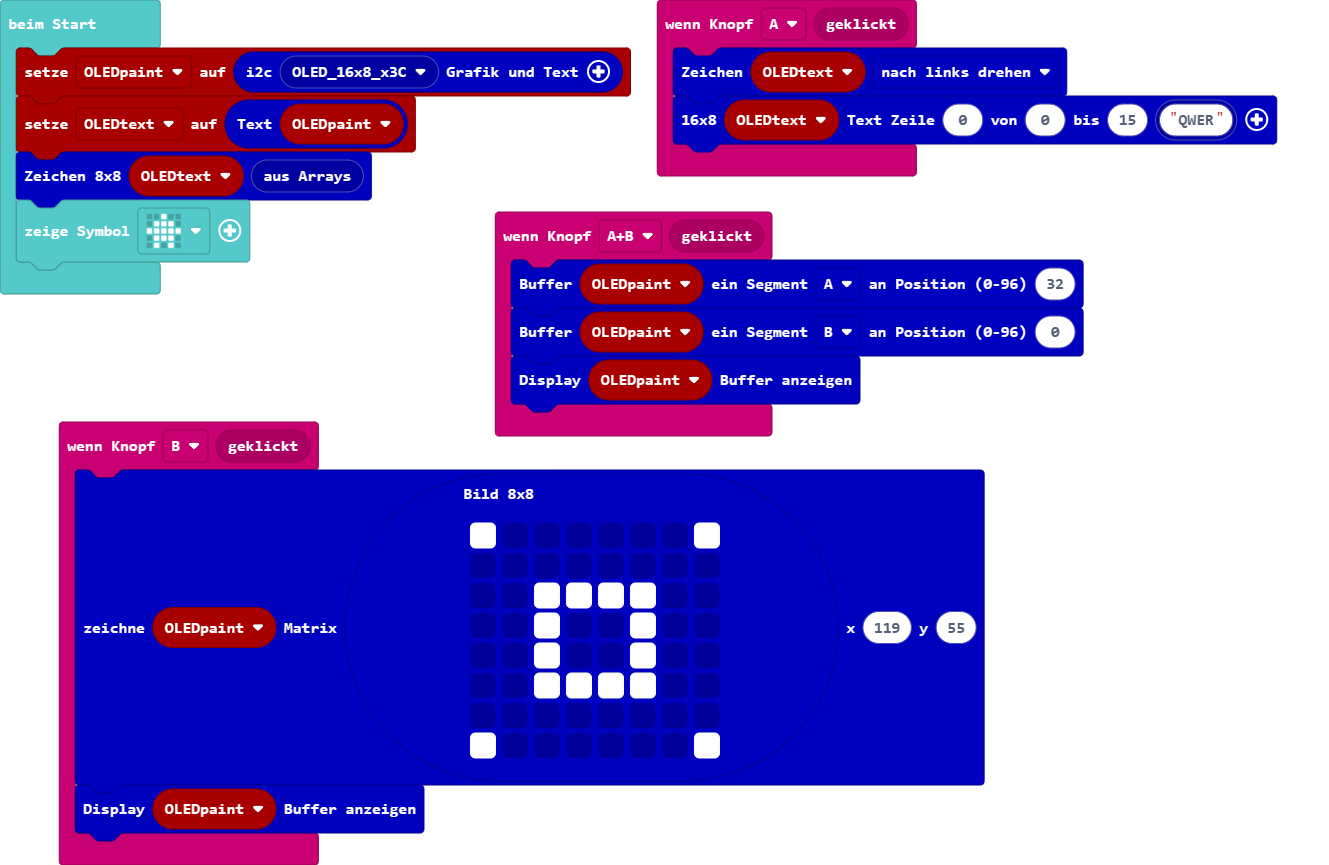
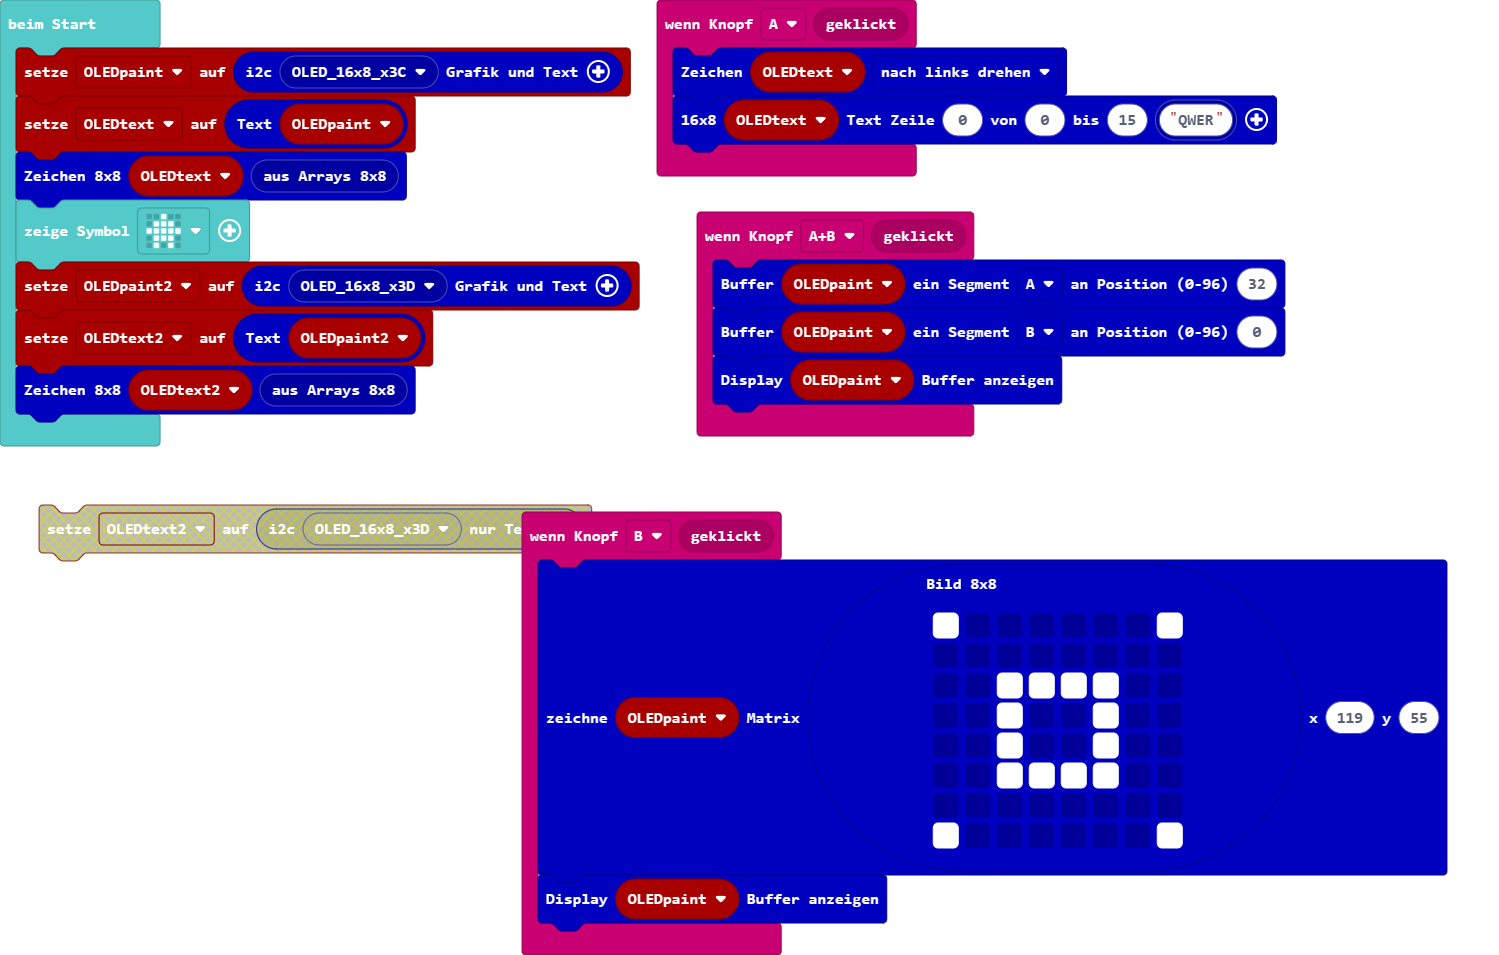
Aktualisiere pxt.json, main.blocks, main.ts, oledarrays.ts

diff --git a/oledarrays.ts b/oledarrays.ts
@@ -1,14 +1,26 @@
 
 namespace oled {
+    let nOLEDArrays_8x8: oledarrays_8x8 = null // nur eine Instanz für mehrere Displays
+    let nOLEDArrays_5x5: oledarrays_5x5 = null
 
-    //% blockId=oled_new_oledarrays_5x5 block="aus Arrays" blockHidden=true
+    //% blockId=oled_new_oledarrays_5x5 block="aus Arrays 5x5" blockHidden=true
     export function new_oledarrays_5x5(): oledarrays_5x5 {
-        return new oledarrays_5x5()
+        if (nOLEDArrays_5x5 == null)
+            nOLEDArrays_5x5 = new oledarrays_5x5()
+        return nOLEDArrays_5x5
     }
 
-    //% blockId=oled_new_oledarrays_8x8 block="aus Arrays" blockHidden=true
+    //% blockId=oled_new_oledarrays_8x8 block="aus Arrays 8x8" blockHidden=true
     export function new_oledarrays_8x8(): oledarrays_8x8 {
-        return new oledarrays_8x8()
+        if (nOLEDArrays_8x8 == null) {
+            basic.showString("n")
+            nOLEDArrays_8x8 = new oledarrays_8x8()
+        }
+        if (nOLEDArrays_8x8 == undefined) {
+            basic.showString("u")
+            //nOLEDArrays_8x8 = new oledarrays_8x8()
+        }
+        return nOLEDArrays_8x8
     }
 
 

diff --git a/main.ts b/main.ts
@@ -26,3 +26,6 @@ OLEDpaint = oled.new_oledpaint(oled.oled_eADDR_OLED(oled.eADDR_OLED.OLED_16x8_x3
 OLEDtext = OLEDpaint.return_oledclass()
 OLEDtext.set_oledarrays_8x8(oled.new_oledarrays_8x8())
 basic.showIcon(IconNames.House)
+let OLEDpaint2 = oled.new_oledpaint(oled.oled_eADDR_OLED(oled.eADDR_OLED.OLED_16x8_x3D))
+let OLEDtext2 = OLEDpaint2.return_oledclass()
+OLEDtext2.set_oledarrays_8x8(oled.new_oledarrays_8x8())
